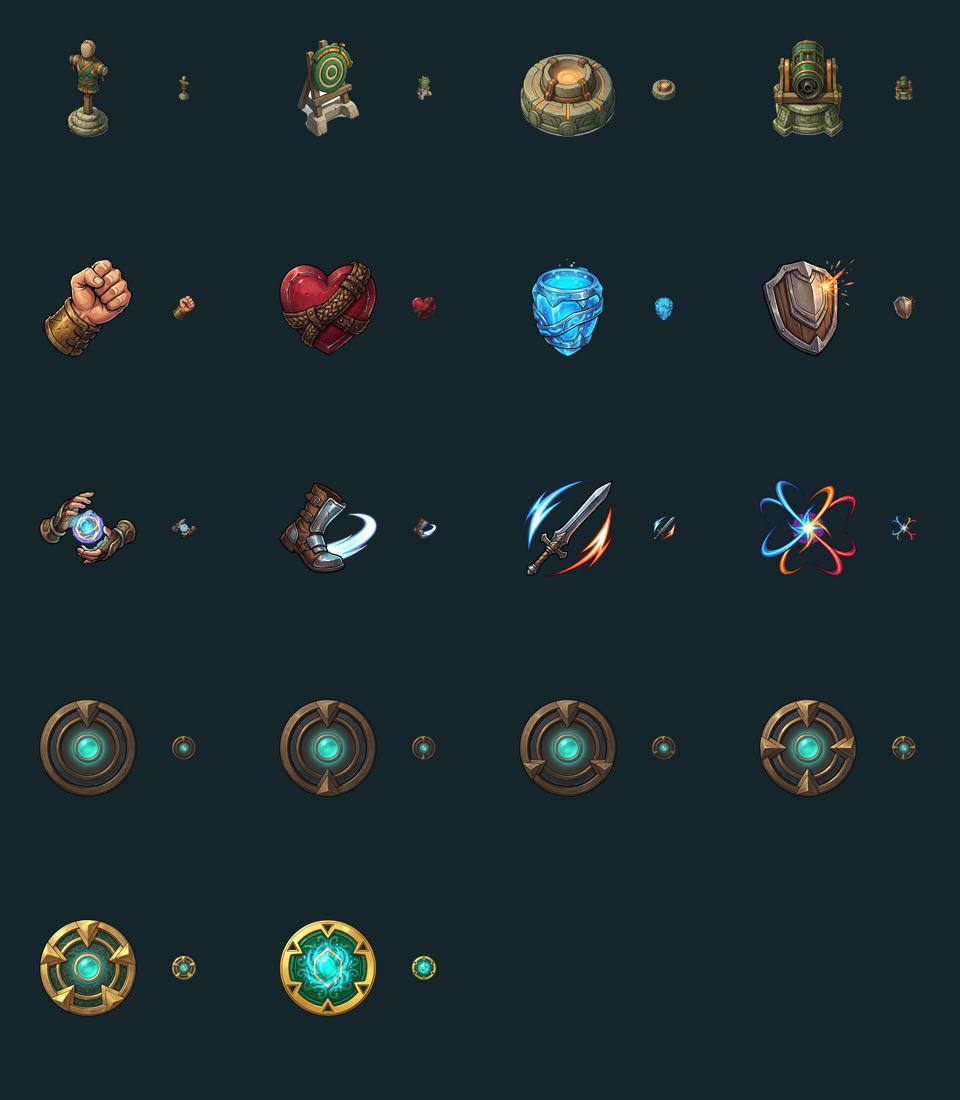
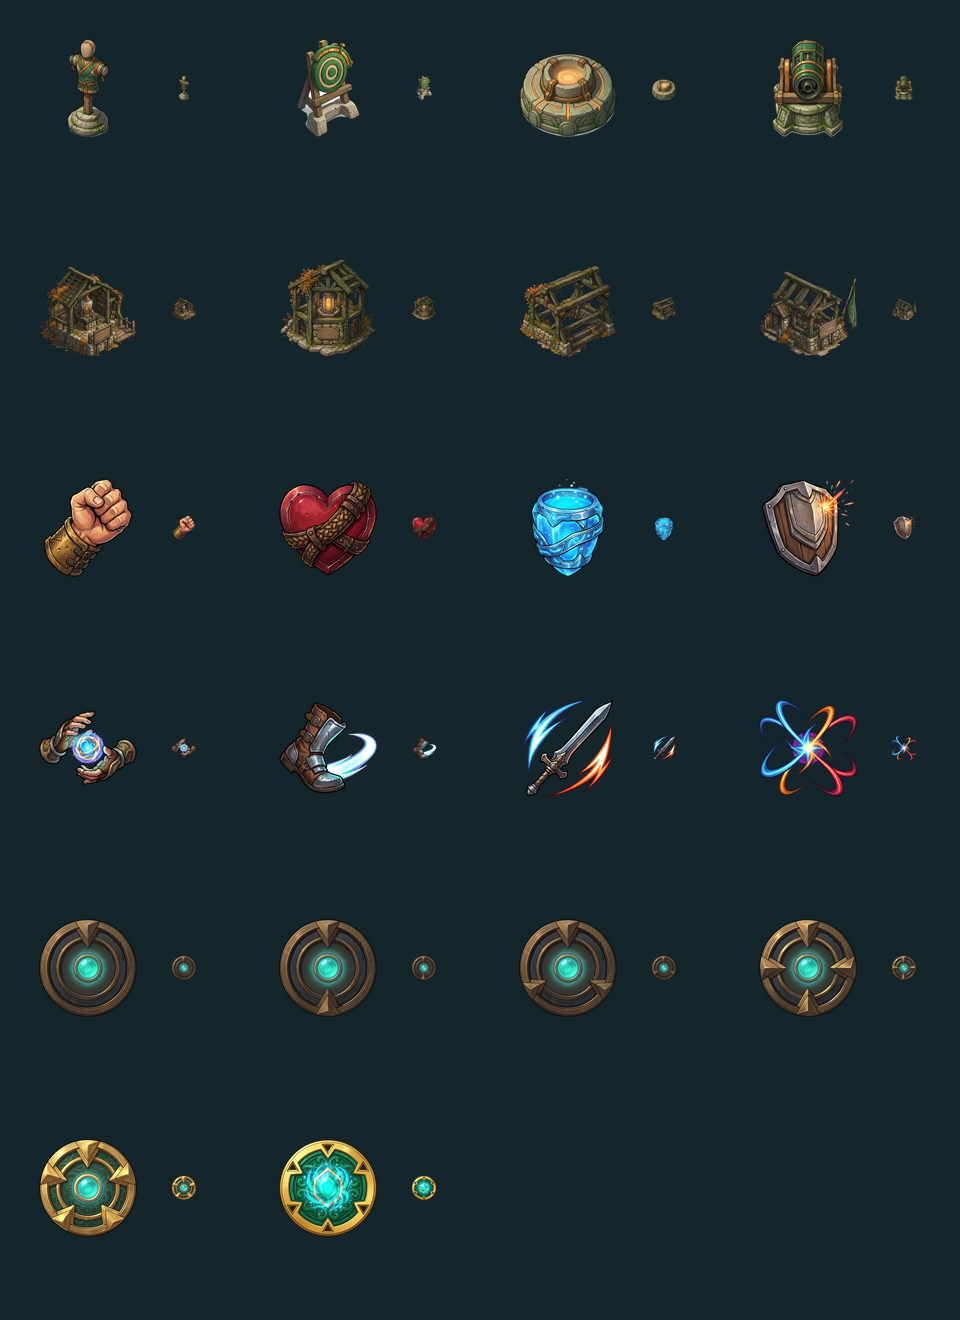
feat(art): import remaining 4 Verdantia P0 training objects (ki-source, checkpoint, obstacle, surrender)

diff --git a/scripts/development/process-etap1-assets.ts b/scripts/development/process-etap1-assets.ts
@@ -75,6 +75,42 @@ const ENTRIES: readonly RawEntry[] = [
       "Create a production asset for KI LEGENDS, a cohesive painted anime fantasy 2D action RPG. an inert defensive training emitter with a clearly visible outward aperture; no active projectile World identity: Verdantia / Planetarni, forest green, amber, ochre, weathered wood and natural stone; living nature, practical craftsmanship. Produce ONE isolated modular game object, 1024x1024 master, transparent background, whole object visible with 12% padding. Orthographic top-down view, camera elevation 60 degrees, roll zero, visible south-facing facade, light from northwest.",
   },
   {
+    id: "training.planetary.ki-source",
+    batch: "PARTIA_2_P0",
+    kind: "object",
+    titlePl: "Źródło testowego KI — Verdantia",
+    sourceFile: ".user_uploaded/media_1793534796448_c40c437f.jpg",
+    prompt:
+      "Create a production asset for KI LEGENDS, a cohesive painted anime fantasy 2D action RPG. a compact training energy source with a small luminous reservoir; not a healing fountain World identity: Verdantia / Planetarni, forest green, amber, ochre, weathered wood and natural stone; living nature, practical craftsmanship. Produce ONE isolated modular game object, 1024x1024 master, transparent background, whole object visible with 12% padding. Orthographic top-down view, camera elevation 60 degrees, roll zero, visible south-facing facade, light from northwest.",
+  },
+  {
+    id: "training.planetary.checkpoint",
+    batch: "PARTIA_2_P0",
+    kind: "object",
+    titlePl: "Punkt trasy — Verdantia",
+    sourceFile: ".user_uploaded/media_1793534796465_fa0f5e48.jpg",
+    prompt:
+      "Create a production asset for KI LEGENDS, a cohesive painted anime fantasy 2D action RPG. a low physical route checkpoint beacon, no lettering World identity: Verdantia / Planetarni, forest green, amber, ochre, weathered wood and natural stone; living nature, practical craftsmanship. Produce ONE isolated modular game object, 1024x1024 master, transparent background, whole object visible with 12% padding. Orthographic top-down view, camera elevation 60 degrees, roll zero, visible south-facing facade, light from northwest.",
+  },
+  {
+    id: "training.planetary.obstacle",
+    batch: "PARTIA_2_P0",
+    kind: "object",
+    titlePl: "Przeszkoda treningowa — Verdantia",
+    sourceFile: ".user_uploaded/media_1793534796440_e9b6cd0c.jpg",
+    prompt:
+      "Create a production asset for KI LEGENDS, a cohesive painted anime fantasy 2D action RPG. a low freestanding practice obstacle with a simple broad collision footprint World identity: Verdantia / Planetarni, forest green, amber, ochre, weathered wood and natural stone; living nature, practical craftsmanship. Produce ONE isolated modular game object, 1024x1024 master, transparent background, whole object visible with 12% padding. Orthographic top-down view, camera elevation 60 degrees, roll zero, visible south-facing facade, light from northwest.",
+  },
+  {
+    id: "training.planetary.surrender",
+    batch: "PARTIA_2_P0",
+    kind: "object",
+    titlePl: "Znacznik poddania — Verdantia",
+    sourceFile: ".user_uploaded/media_1793534796429_4733c57c.jpg",
+    prompt:
+      "Create a production asset for KI LEGENDS, a cohesive painted anime fantasy 2D action RPG. a small nonviolent practice surrender marker, lowered pennant beside a training base World identity: Verdantia / Planetarni, forest green, amber, ochre, weathered wood and natural stone; living nature, practical craftsmanship. Produce ONE isolated modular game object, 1024x1024 master, transparent background, whole object visible with 12% padding. Orthographic top-down view, camera elevation 60 degrees, roll zero, visible south-facing facade, light from northwest.",
+  },
+  {
     id: "ui.training.strength",
     batch: "PARTIA_2_P0",
     kind: "icon",

diff --git a/src/game/development/examRuntime.ts b/src/game/development/examRuntime.ts
@@ -9,8 +9,13 @@ import type { ExamAttempt } from "./exams";
 
 const DEV_OBJECT_KEYS = {
   dummy: "dev-training-planetary-dummy",
+  target: "dev-training-planetary-target",
   "ki-node": "dev-training-planetary-ki-node",
   defense: "dev-training-planetary-defense",
+  "ki-source": "dev-training-planetary-ki-source",
+  checkpoint: "dev-training-planetary-checkpoint",
+  obstacle: "dev-training-planetary-obstacle",
+  surrender: "dev-training-planetary-surrender",
 } as const;
 
 /** The loan room has no city/landscape/NPCs: load only the current hero, UI and relevant effects. */
@@ -28,7 +33,7 @@ export function examAssets(race: RaceId): AssetDefinition[] {
     return asset;
   });
   if (devArtEnabled() && world === "verdant") {
-    for (const kind of ["dummy", "ki-node", "defense"] as const) {
+    for (const kind of Object.keys(DEV_OBJECT_KEYS) as (keyof typeof DEV_OBJECT_KEYS)[]) {
       const url = trainingObjectUrl(world, kind);
       if (url)
         base.push({
@@ -81,6 +86,27 @@ export function examRuntime(attempt: ExamAttempt): GameRuntime {
               .setOrigin(0.5, 0.88)
               .setDepth(pt.y),
           );
+        if (scene.textures.exists(DEV_OBJECT_KEYS["ki-source"]))
+          props.push(
+            scene.add
+              .image(480, 382, DEV_OBJECT_KEYS["ki-source"])
+              .setDisplaySize(104, 104)
+              .setOrigin(0.5, 0.88)
+              .setDepth(370),
+          );
+      }
+      if (
+        attempt.spec.discipline === "endurance" &&
+        scene.textures.exists(DEV_OBJECT_KEYS.checkpoint)
+      ) {
+        for (const pt of attempt.points)
+          props.push(
+            scene.add
+              .image(pt.x, pt.y + 10, DEV_OBJECT_KEYS.checkpoint)
+              .setDisplaySize(88, 88)
+              .setOrigin(0.5, 0.88)
+              .setDepth(pt.y),
+          );
       }
       if (
         attempt.spec.discipline === "defense" &&
@@ -92,6 +118,25 @@ export function examRuntime(attempt: ExamAttempt): GameRuntime {
             .setDisplaySize(96, 96)
             .setOrigin(0.5, 0.88)
             .setDepth(175),
+        );
+      }
+      if (scene.textures.exists(DEV_OBJECT_KEYS.obstacle)) {
+        for (const b of attempt.session.world.obstacles)
+          props.push(
+            scene.add
+              .image(b.x + b.width / 2, b.y + b.height, DEV_OBJECT_KEYS.obstacle)
+              .setDisplaySize(Math.max(72, b.width + 16), Math.max(72, b.height + 24))
+              .setOrigin(0.5, 0.88)
+              .setDepth(b.y + b.height),
+          );
+      }
+      if (scene.textures.exists(DEV_OBJECT_KEYS.surrender)) {
+        props.push(
+          scene.add
+            .image(140, 680, DEV_OBJECT_KEYS.surrender)
+            .setDisplaySize(96, 96)
+            .setOrigin(0.5, 0.88)
+            .setDepth(680),
         );
       }
       const text = scene.add

diff --git a/src/game/development/developmentAssets.ts b/src/game/development/developmentAssets.ts
@@ -34,11 +34,24 @@ export const VERDANTIA_TRAINING_OBJECTS = {
   "training.planetary.target": "/game/development-v1/objects/training.planetary.target.webp",
   "training.planetary.ki-node": "/game/development-v1/objects/training.planetary.ki-node.webp",
   "training.planetary.defense": "/game/development-v1/objects/training.planetary.defense.webp",
+  "training.planetary.ki-source": "/game/development-v1/objects/training.planetary.ki-source.webp",
+  "training.planetary.checkpoint": "/game/development-v1/objects/training.planetary.checkpoint.webp",
+  "training.planetary.obstacle": "/game/development-v1/objects/training.planetary.obstacle.webp",
+  "training.planetary.surrender": "/game/development-v1/objects/training.planetary.surrender.webp",
 } as const;
+export type TrainingObjectKind =
+  | "dummy"
+  | "target"
+  | "ki-node"
+  | "defense"
+  | "ki-source"
+  | "checkpoint"
+  | "obstacle"
+  | "surrender";
 
 export function trainingObjectUrl(
   world: WorldId,
-  kind: "dummy" | "target" | "ki-node" | "defense",
+  kind: TrainingObjectKind,
 ): string | undefined {
   if (world !== "verdant") return undefined;
   return VERDANTIA_TRAINING_OBJECTS[`training.planetary.${kind}`];

diff --git a/src/test/development-etap1-assets.test.ts b/src/test/development-etap1-assets.test.ts
@@ -28,7 +28,16 @@ describe("Etap 1 development assets (Partia 1 + P0)", () => {
       expect(url).toBeDefined();
       expect(existsSync("public" + url!), `tier ${tier}: ${url}`).toBe(true);
     }
-    for (const kind of ["dummy", "target", "ki-node", "defense"] as const) {
+    for (const kind of [
+      "dummy",
+      "target",
+      "ki-node",
+      "defense",
+      "ki-source",
+      "checkpoint",
+      "obstacle",
+      "surrender",
+    ] as const) {
       const url = trainingObjectUrl("verdant", kind);
       expect(url).toBeDefined();
       expect(existsSync("public" + url!), `verdant.${kind}: ${url}`).toBe(true);
@@ -40,7 +49,7 @@ describe("Etap 1 development assets (Partia 1 + P0)", () => {
     expect(existsSync(manifestPath)).toBe(true);
     const manifest = JSON.parse(readFileSync(manifestPath, "utf8"));
     expect(manifest.optInSwitch).toBe("ki-dev-art");
-    expect(manifest.assets.length).toBe(18);
+    expect(manifest.assets.length).toBe(22);
 
     for (const asset of manifest.assets) {
       const origPath = `art/production/development/v001/originals/${asset.id}.v001.orig.jpg`;
